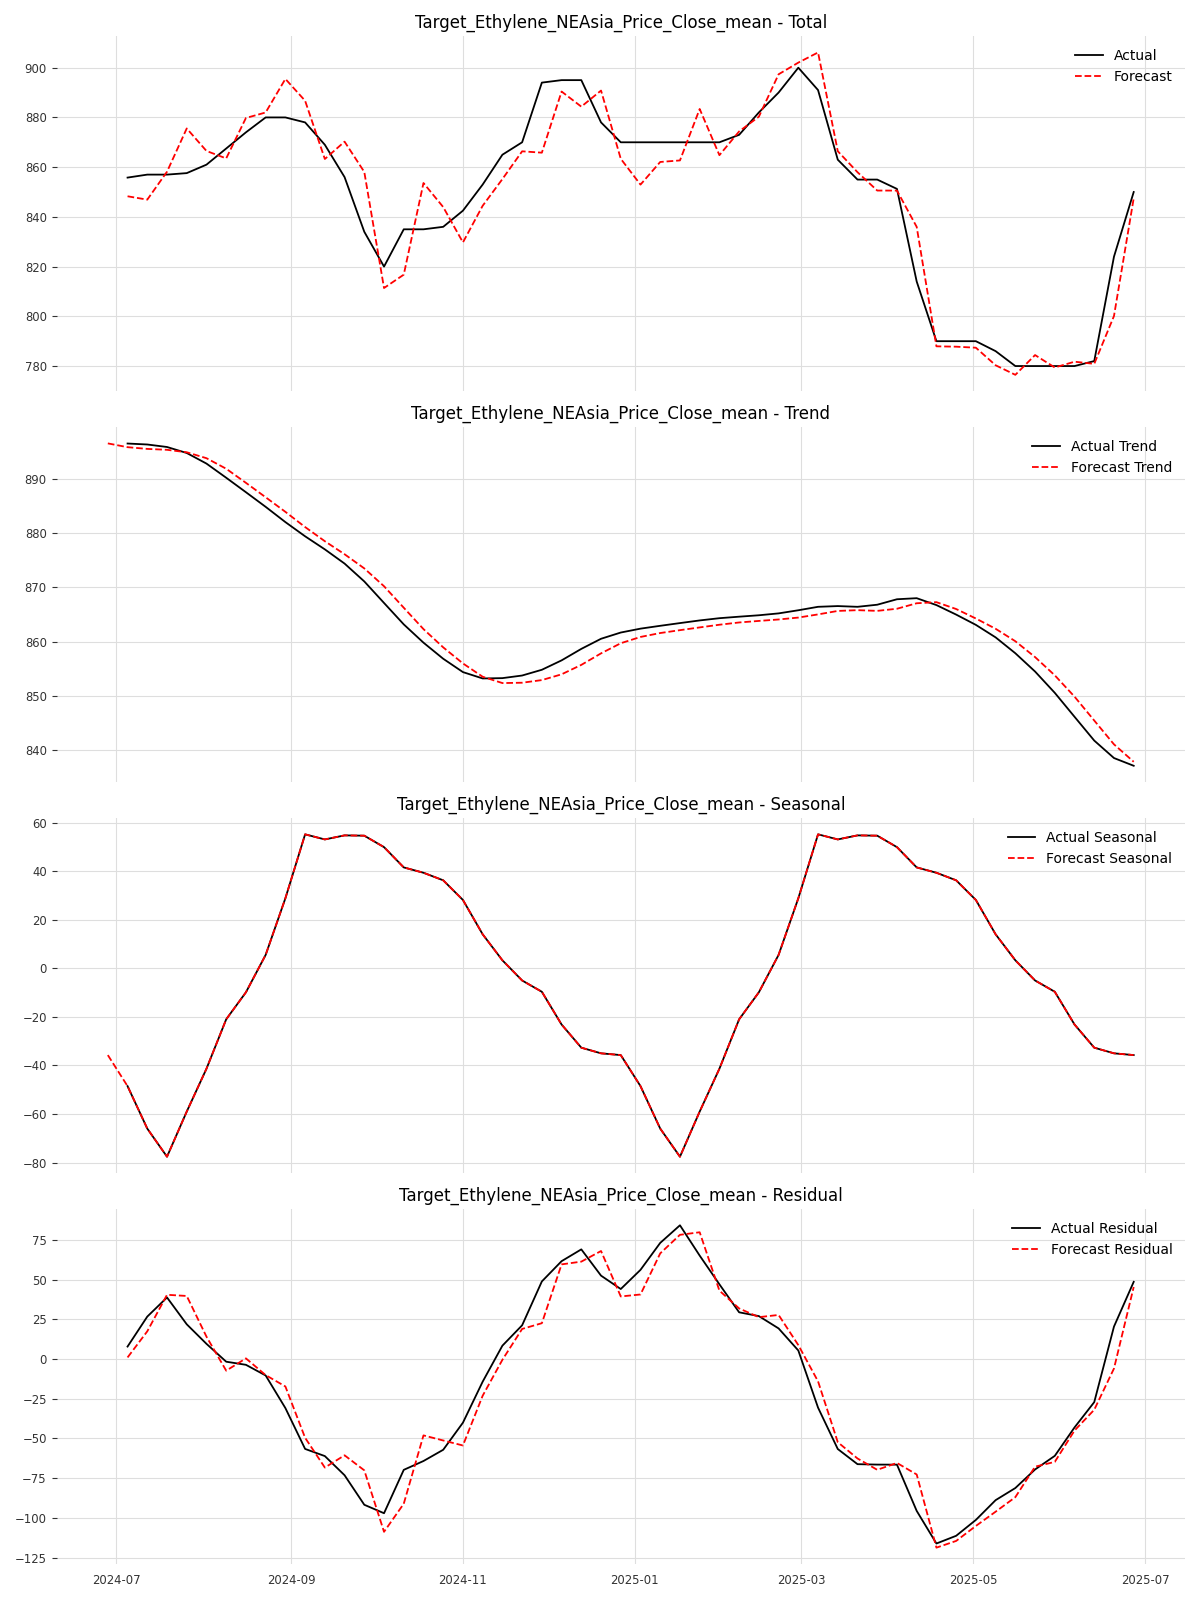
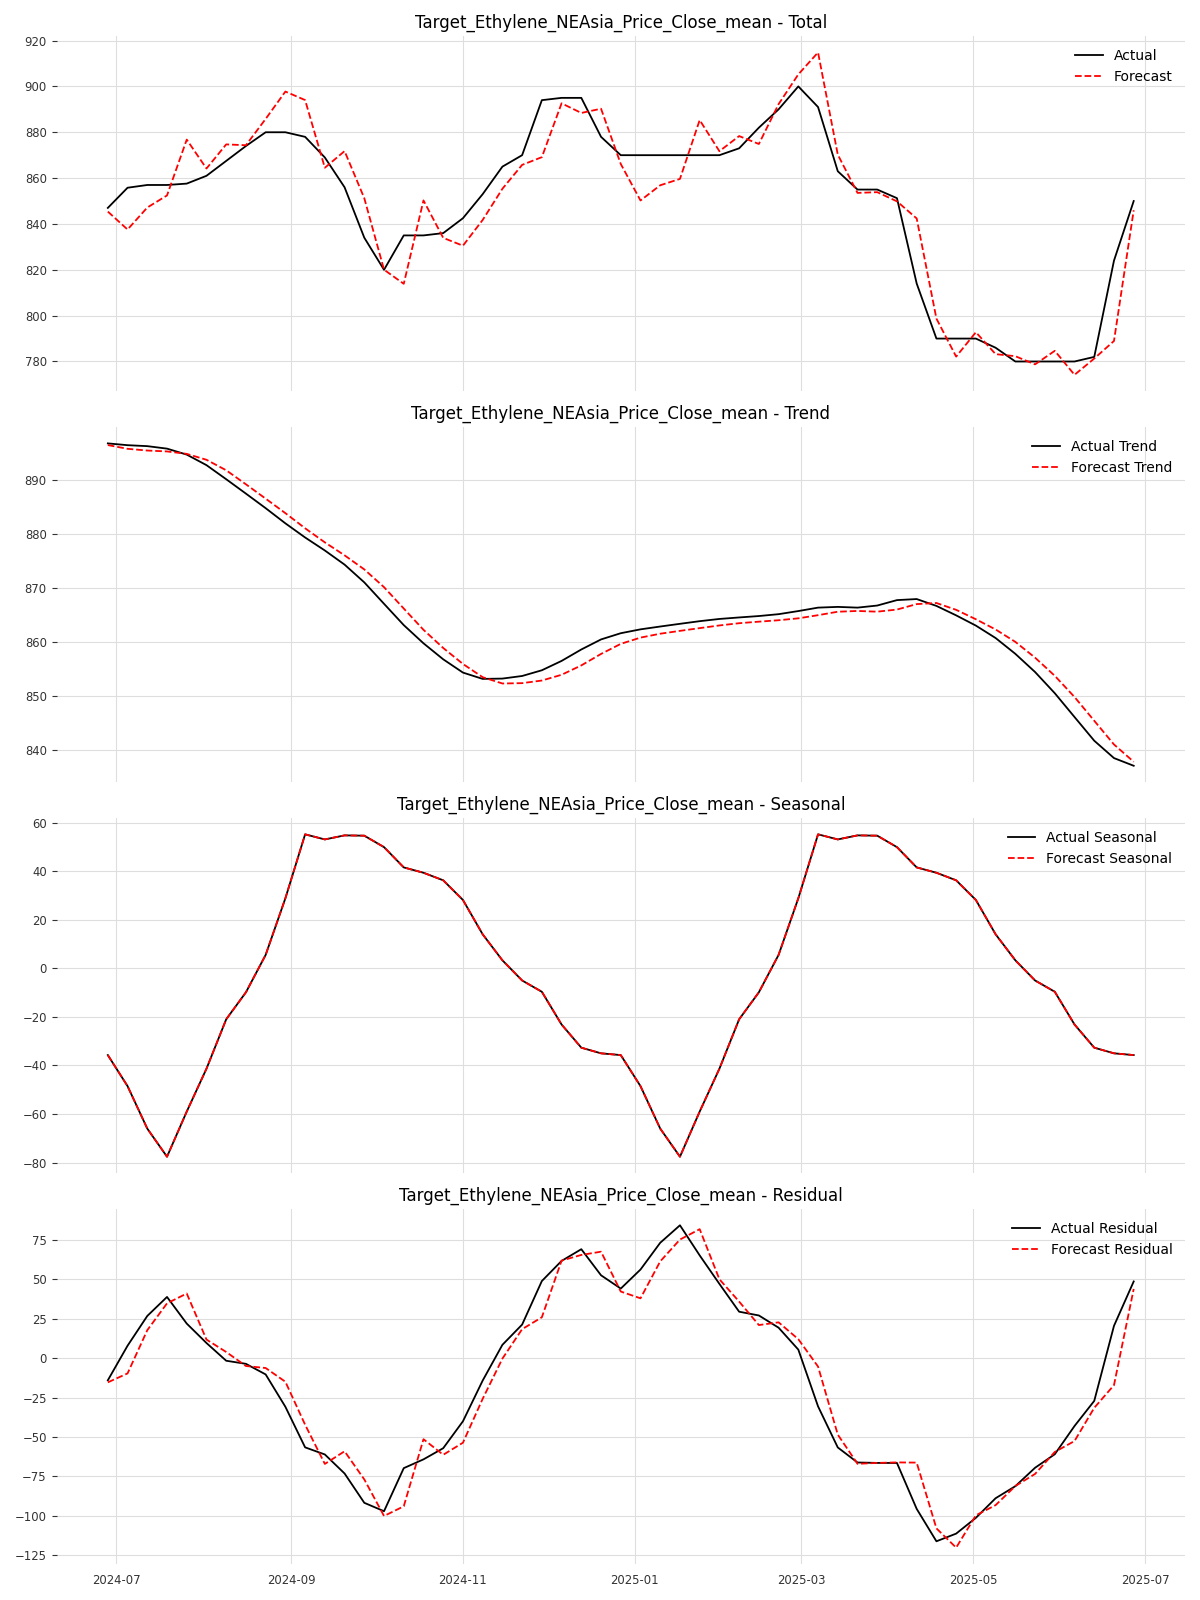
Use ARIMA with differenced targets as covariance
-> Insight: Multivariate is better than Univariate

diff --git a/varima_forecasting.py b/varima_forecasting.py
@@ -13,7 +13,7 @@ import seaborn as sns
 
 # Darts imports
 from darts import TimeSeries
-from darts.models import VARIMA, Theta, NaiveSeasonal
+from darts.models import ARIMA, Theta, NaiveSeasonal
 from darts.metrics import smape, mase, mae, mse, rmse
 from darts.dataprocessing.transformers import Scaler, Diff, MissingValuesFiller
 from darts.utils.statistics import check_seasonality
@@ -411,82 +411,71 @@ def run_varima_pipeline():
     Visualization.plot_decomposition(components, OUTPUT_DIR)
     
     # 3. Modeling & Forecasting
-    
-    # Prepare Residuals for VARIMA (Multivariate)
-    try:
-        train_res_multi, test_res_multi = prep.prepare_multivariate_series(
-            components, 
-            train_df.index, 
-            test_df.index,
-            col_name='residual'
-        )
-        full_res_multi = train_res_multi.append(test_res_multi)
-    except ValueError as e:
-        logger.error(str(e))
-        return
-
-    # Differencing
-    diff_trasformer = Diff(lags=1)
-    train_res_cov = diff_trasformer.fit_transform(train_res_multi)
-    full_res_cov = diff_trasformer.transform(full_res_multi)
-
-    # Fill missing values
-    missing_filler = MissingValuesFiller(fill=0.0)
-    train_res_future_cov = missing_filler.transform(train_res_cov.shift(1))
-    full_res_future_cov = missing_filler.transform(full_res_cov.shift(1))
-
-    # Align target and covariates to intersection (fixes start date mismatch due to shift/diff)
-    train_res_multi = train_res_multi.slice_intersect(train_res_future_cov)
-    train_res_future_cov = train_res_future_cov.slice_intersect(train_res_multi)
-    
-    full_res_multi = full_res_multi.slice_intersect(full_res_future_cov)
-    full_res_future_cov = full_res_future_cov.slice_intersect(full_res_multi)
-        
-    # Hyperparameter Tuning for VARIMA
-    parameters = {
-        'p': [1, 2, 3],
-        'd': [0],
-        'q': [0, 1, 2],
-        'trend': ['n', 'c']
-    }
-    
-    try:
-        best_model, best_params, best_score = ModelTraining.perform_grid_search(
-            VARIMA, parameters, train_res_multi, future_covariates=train_res_future_cov
-        )
-        logger.info(f"Best VARIMA parameters: {best_params} with MSE={best_score}")
-        
-    except Exception as e:
-        logger.warning(f"Grid search failed: {str(e)}. Using default VARIMA(1,0,0)")
-        best_model = VARIMA(p=1, d=0, q=0, trend='n')
-        
-    # Fit best model on full train residuals
-    best_model.fit(train_res_multi, future_covariates=train_res_future_cov)
-    
-    # Historical Forecasts (on Test set)
-    hist_pred_res = best_model.historical_forecasts(
-        series=full_res_multi,
-        future_covariates=full_res_future_cov,
-        start=len(train_res_multi),
-        forecast_horizon=1,
-        stride=1,
-        retrain=False,
-        verbose=True
-    )
 
     # Reconstruct predictions
     for i, target in enumerate(targets):
-        if target not in components:
-            continue
-            
-        # 1. Component Predictions
-        res_pred = hist_pred_res.univariate_component(i)
+        # 1.1 Residual ARIMA Predictions
+        
+        # Prepare Residuals for ARIMA
+        full_res_uni = TimeSeries.from_series(components[target]['residual'])
+        train_res_uni = full_res_uni.drop_after(train_df.index[-1])
 
+        # Differencing
+        diff_trasformer = Diff(lags=1)
+        train_res_cov = diff_trasformer.fit_transform(train_res_uni)
+        full_res_cov = diff_trasformer.transform(full_res_uni)
+
+        # Fill missing values
+        missing_filler = MissingValuesFiller(fill=0.0)
+        train_res_future_cov = missing_filler.transform(train_res_cov.shift(1))
+        full_res_future_cov = missing_filler.transform(full_res_cov.shift(1))
+
+        # Align target and covariates to intersection (fixes start date mismatch due to shift/diff)
+        train_res_uni = train_res_uni.slice_intersect(train_res_future_cov)
+        train_res_future_cov = train_res_future_cov.slice_intersect(train_res_uni)
+        
+        full_res_uni = full_res_uni.slice_intersect(full_res_future_cov)
+        full_res_future_cov = full_res_future_cov.slice_intersect(full_res_uni)
+            
+        # Hyperparameter Tuning for ARIMA
+        parameters = {
+            'p': [1, 2, 3],
+            'd': [0],
+            'q': [0, 1, 2],
+            'trend': ['n', 'c']
+        }
+        
+        try:
+            best_model, best_params, best_score = ModelTraining.perform_grid_search(
+                ARIMA, parameters, train_res_uni, future_covariates=train_res_future_cov
+            )
+            logger.info(f"Best ARIMA parameters: {best_params} with MSE={best_score}")
+            
+        except Exception as e:
+            logger.warning(f"Grid search failed: {str(e)}. Using default ARIMA(1,0,0)")
+            best_model = ARIMA(p=1, d=0, q=0, trend='n')
+            
+        # Fit best model on full train residuals
+        best_model.fit(train_res_uni, future_covariates=train_res_future_cov)
+        
+        # Historical Forecasts (on Test set)
+        residual_pred = best_model.historical_forecasts(
+            series=full_res_uni,
+            future_covariates=full_res_future_cov,
+            start=len(train_res_uni),
+            forecast_horizon=1,
+            stride=1,
+            retrain=False,
+            verbose=True
+        )
+
+        # 1.2 Trend Predictions
         trend_pred = ModelTraining.forecast_trend(
             series=components[target]['trend'],
             train_split_date=train_df.index[-1]
         )
         
+        # 1.3 Seasonal Predictions
         seasonal_pred = ModelTraining.forecast_seasonal(
             series=components[target]['seasonal'],
             train_split_date=train_df.index[-1],
@@ -494,7 +483,7 @@ def run_varima_pipeline():
         )
         
         # 2. Reconstruct Prediction
-        final_pred_series = ModelTraining.combine_predictions([trend_pred, seasonal_pred, res_pred])
+        final_pred_series = ModelTraining.combine_predictions([trend_pred, seasonal_pred, residual_pred])
         common_index = final_pred_series.time_index
 
         # Get Actuals
@@ -515,7 +504,7 @@ def run_varima_pipeline():
         pred_comps = {
             'trend': pd.Series(trend_pred.values().flatten(), index=trend_pred.time_index),
             'seasonal': pd.Series(seasonal_pred.values().flatten(), index=seasonal_pred.time_index),
-            'residual': pd.Series(res_pred.values().flatten(), index=res_pred.time_index)
+            'residual': pd.Series(residual_pred.values().flatten(), index=residual_pred.time_index)
         }
         
         Visualization.plot_forecast_components(target, actuals, preds, act_comps, pred_comps, OUTPUT_DIR)
